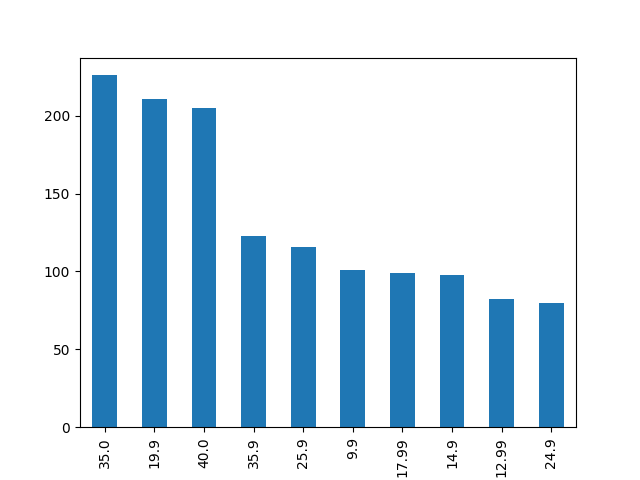
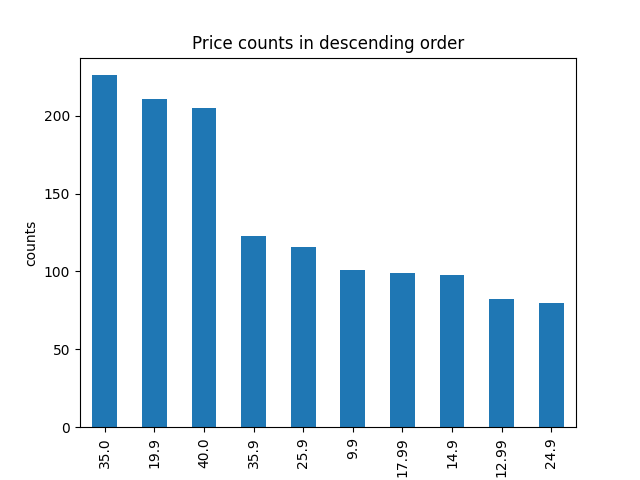
Updates on missing scatter plots and more EDA visualizations

Changed region(s): [[0.2812, 0.0625, 0.7188, 0.125], [0.0312, 0.4688, 0.0625, 0.5625]]

diff --git a/EDA/EDA.py b/EDA/EDA.py
@@ -60,21 +60,23 @@ def plot_image_distribution(dim_df, brand):
     except:
         print(brand)
 
-    plt.figure(0)
+    # plt.figure(0)
     sizes.plot.scatter(x='width', y='height')
     plt.title('Image Sizes (pixels) | {}'.format(brand))
     plt.xlabel("width")
     plt.ylabel("height")
-    plt.show()
     plt.savefig(f"./EDA/imageSizes_scatter_{brand}.png")
+    plt.show()
 
-    plt.figure(1)
+    # plt.figure(1)
+
     sizes.plot.bar(x="h_w", y="count")
     plt.title('Image Sizes Counts (pixels) | {}'.format(brand))
     plt.xlabel("image sizes")
     plt.ylabel("count")
     for i, v in enumerate(list(sizes["count"])):
         plt.text(i, v + 3, str(v), color='blue', fontweight='bold')
+    plt.xticks(rotation=45)
     plt.savefig(f"./EDA/imageSizes_bar_{brand}.png")
     plt.show()
 
@@ -92,31 +94,35 @@ if __name__ == "__main__":
 
     df = pd.read_csv("./data/E-Weaver_data.csv", index_col = [0])
 
-    # statistical description for datatypes 
-    # print(df.info())
-    # print("-"*50)
-    # print(df.dtypes)
-    # print("-"*50)
-    # print(df.describe().T)
-    # print("-"*50)
+    # Statistical description for datatypes 
+    print(df.info())
+    print("-"*50)
+    print(df.dtypes)
+    print("-"*50)
+    print(df.describe().T)
+    print("-"*50)
 
-    # # Checking the number of rows having null values
-    # print(df[df.columns[df.isnull().any()]].isnull().sum())
-    # print("-"*50)
+    # Checking the number of rows having null values
+    print(df[df.columns[df.isnull().any()]].isnull().sum())
+    print("-"*50)
 
-    # # How many unique colors in dataset
-    # print(len(df["color"].unique()))
+    # How many unique colors in dataset
+    print(len(df["color"].unique()))
 
-    # # Price columns' distribution in bar plot
-    # df['price'].value_counts().head(10).plot.bar()
-    # plt.savefig(f"./EDA/price_histogram.png")
-    # plt.show()
+    # Price columns' distribution in bar plot
+    df['price'].value_counts().head(10).plot.bar()
+    plt.title("Price counts in descending order")
+    plt.xlabel("price($)")
+    plt.ylabel("counts")
+    plt.savefig(f"./EDA/price_histogram.png")
+    plt.show()
 
     # # Outlier analysis of price column
-    # price_df = df["price"]
-    # ax = sns.boxplot(data = price_df, palette = "Set2")
-    # plt.savefig(f"./EDA/price_outlier.png")
-    # plt.show()
+    price_df = df["price"]
+    ax = sns.boxplot(data = price_df, palette = "Set2")
+    plt.title("Outlier analysis of price attribute")
+    plt.savefig(f"./EDA/price_outlier.png")
+    plt.show()
 
     # Correlation analysis between numerical value attributes
     columns = df.columns.tolist()
@@ -133,60 +139,67 @@ if __name__ == "__main__":
     plt.savefig(f"./EDA/numerical_feature_heatmap.png")
     plt.show()
 
-    # brand_lst = list(df.brand.unique())
-    # for brand in brand_lst:
-    #     # Create wordcloud for each indivicual brand
-    #     tmp_df = df[df["brand"]==brand]
-    #     make_wordcloud(tmp_df, brand)
+    brand_lst = list(df.brand.unique())
+    for brand in brand_lst:
+        # Create wordcloud for each indivicual brand
+        tmp_df = df[df["brand"]==brand]
+        make_wordcloud(tmp_df, brand)
 
-    #     # Create visualization for images'size distribution
-    #     if brand == "tentree":
-    #         continue
-    #     imagePath_lst = [os.path.join("data/image_data", f) for f in os.listdir("data/image_data/") if brand in f]
-    #     dim_df = pd.DataFrame([get_dims(imagePath) for imagePath in imagePath_lst], columns = ["height", "width"])
-    #     dim_df = dim_df[dim_df.height != 0]
-    #     plot_image_distribution(dim_df, brand)
+        # Create visualization for images'size distribution
+        if brand == "tentree":
+            continue
+        imagePath_lst = [os.path.join("data/image_data", f) for f in os.listdir("data/image_data/") if brand in f]
+        dim_df = pd.DataFrame([get_dims(imagePath) for imagePath in imagePath_lst], columns = ["height", "width"])
+        dim_df = dim_df[dim_df.height != 0]
+        plot_image_distribution(dim_df, brand)
 
-    # # Create wordcloud for all data
-    # make_wordcloud(df, "all")
+    # Create wordcloud for all data
+    make_wordcloud(df, "all")
 
-    # # Create visualization for price column
-    # # plot_order1 = df["price"].groupby('price')['price'].sum().sort_values(ascending=True).index.values
-    # g = sns.catplot("price", data=df, kind='count', height=10, aspect=1.5)
-    # (g.set_axis_labels("Price", "Count").set_titles("All data price distribution").despine(left=True))  
+    # Create visualization for all images's size
+    imagePath_lst = [os.path.join("data/image_data", f) for f in os.listdir("data/image_data/")]
+    dim_df = pd.DataFrame([get_dims(imagePath) for imagePath in imagePath_lst], columns = ["height", "width"])
+    # Get rid of image failed to download which only has 1 channel only
+    dim_df = dim_df[dim_df.height != 0]
+    plot_image_distribution(dim_df, "all")
 
-    # # Create visualization for all the composition materials
-    # df_men = df[df["gender"]=="men"]
-    # df_women = df[df["gender"]=="women"]
+    # Create visualization for price column
+    # plot_order1 = df["price"].groupby('price')['price'].sum().sort_values(ascending=True).index.values
+    g = sns.catplot("price", data=df, kind='count', height=10, aspect=1.5)
+    (g.set_axis_labels("Price", "Count").set_titles("All data price distribution").despine(left=True))  
 
-    # plot_material_distribution(df, materials_columns, "all")
-    # # Create visualization for each gender's composition materials
-    # plot_material_distribution(df_men, materials_columns, "men")
-    # plot_material_distribution(df_women, materials_columns, "women")
-    # # Create visualization for each brand's composition materials
-    # for brand in brand_lst:
-    #     tmp_df = df[df["brand"]==brand]
-    #     plot_material_distribution(tmp_df, materials_columns, brand)
+    # Create visualization for all the composition materials
+    df_men = df[df["gender"]=="men"]
+    df_women = df[df["gender"]=="women"]
 
-    # # Create distribution of numbers of materials in a t-shirt
-    # # first get boolean value for all the numbers value in all materials sub-dataset, True for any number and False for 0
-    # df_boolean = df[materials_columns].select_dtypes(include=['number']) != 0
-    # count_lst = []
-    # for idx, row in df_boolean.iterrows():
-    #     count = 0
-    #     for material in materials_columns:
-    #         if row[material] == True:
-    #             count += 1 
-    #     count_lst.append(count)
-    # count_dict = dict(Counter(count_lst))
-    # # rename the keys
-    # count_dict = dict((str(key)+" material(s)", value) for (key, value) in count_dict.items())
-    # # print(count_dict)
+    plot_material_distribution(df, materials_columns, "all")
+    # Create visualization for each gender's composition materials
+    plot_material_distribution(df_men, materials_columns, "men")
+    plot_material_distribution(df_women, materials_columns, "women")
+    # Create visualization for each brand's composition materials
+    for brand in brand_lst:
+        tmp_df = df[df["brand"]==brand]
+        plot_material_distribution(tmp_df, materials_columns, brand)
 
-    # fig = go.Figure(data=[go.Pie(labels=list(count_dict.keys()), values = list(count_dict.values()),
-    #                                     title = f"material composition count")])
-    # fig.show()
-    # fig.write_image("./EDA/material_composition_count.png")
+    # Create distribution of numbers of materials in a t-shirt
+    # first get boolean value for all the numbers value in all materials sub-dataset, True for any number and False for 0
+    df_boolean = df[materials_columns].select_dtypes(include=['number']) != 0
+    count_lst = []
+    for idx, row in df_boolean.iterrows():
+        count = 0
+        for material in materials_columns:
+            if row[material] == True:
+                count += 1 
+        count_lst.append(count)
+    count_dict = dict(Counter(count_lst))
+    # rename the keys
+    count_dict = dict((str(key)+" material(s)", value) for (key, value) in count_dict.items())
+    # print(count_dict)
+
+    fig = go.Figure(data=[go.Pie(labels=list(count_dict.keys()), values = list(count_dict.values()),
+                                        title = f"material composition count")])
+    fig.show()
+    fig.write_image("./EDA/material_composition_count.png")
 
 
 
